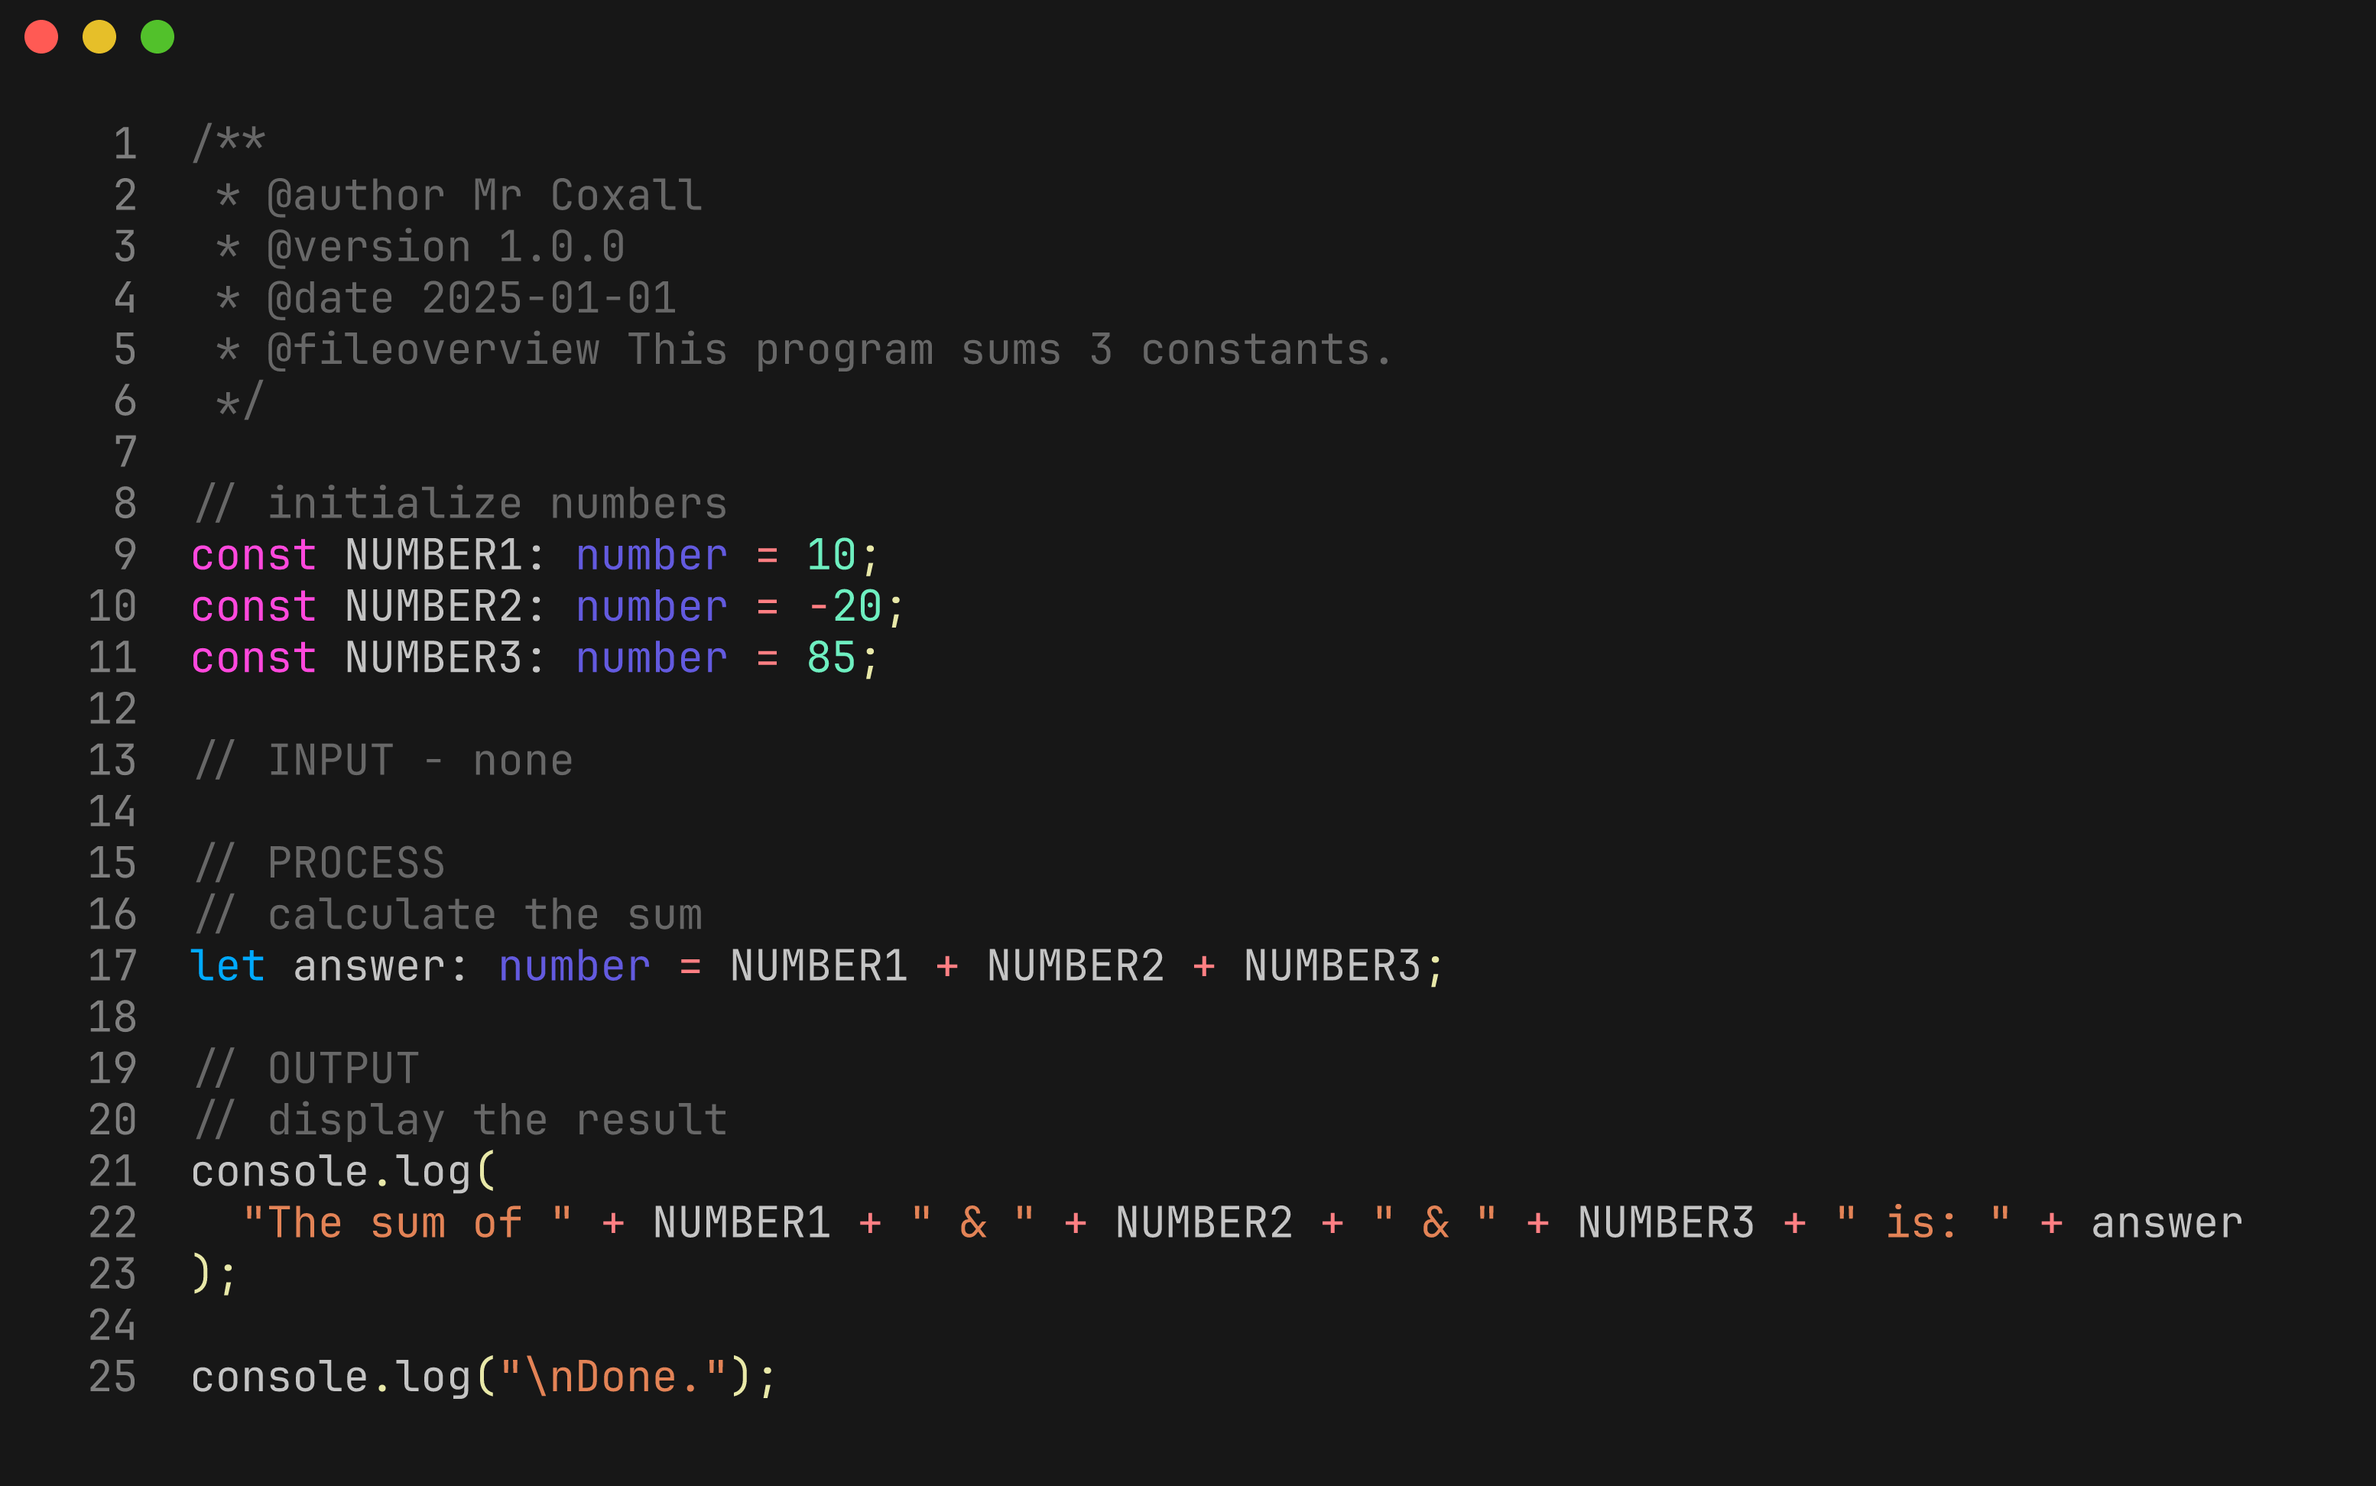
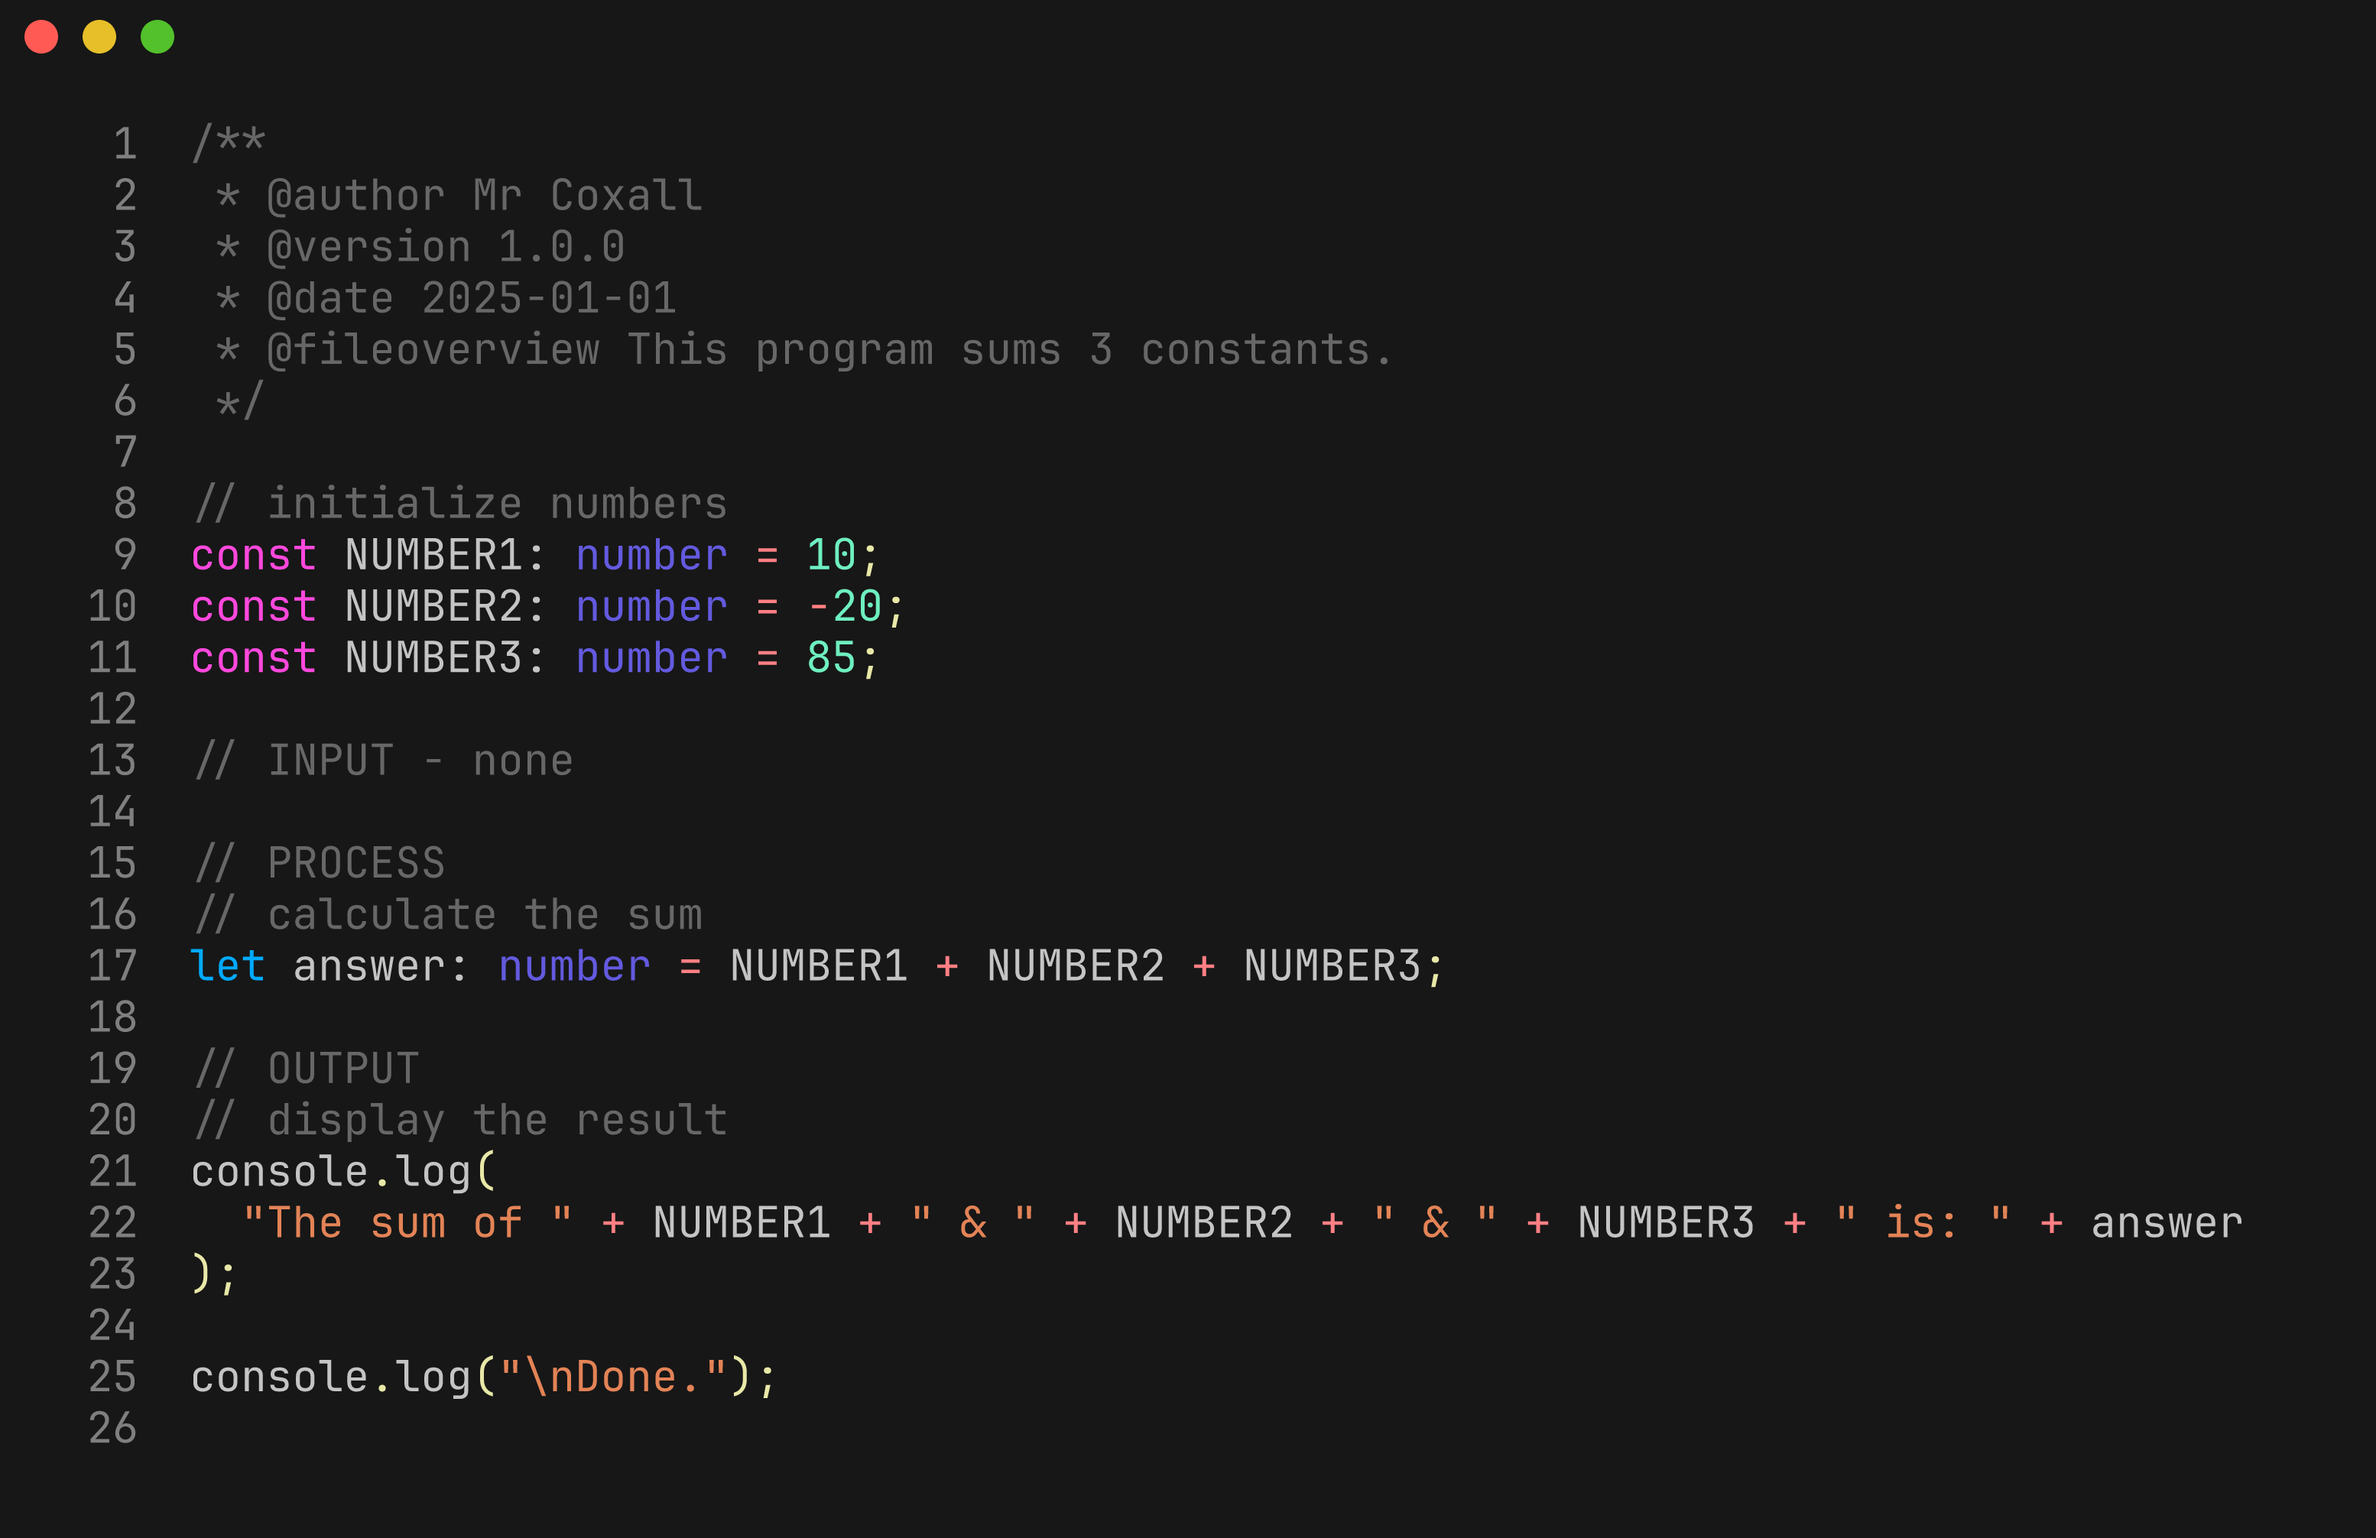
update

diff --git a/same_constants/main.ts b/same_constants/main.ts
@@ -23,3 +23,4 @@ console.log(
 );
 
 console.log("\nDone.");
+

diff --git a/mixing_types/main2.go b/mixing_types/main2.go
@@ -2,7 +2,7 @@
  * Author Mr Coxall
  * Version 1.0.0
  * Date 2025-01-01
- * This program This program sums 3 constants.
+ * This program shows mixing types.
  */
 
 package main
@@ -11,19 +11,18 @@ import "fmt"
 
 func main() {
 	// initialize numbers as constants
-	const NUMBER1 int = 10
-	const NUMBER2 int = -20
-	const NUMBER3 int = 85
+	var someNumber int = 25
+	var someFloat float32 = 85.75
 
 	// INPUT - none
 
 	// PROCESS
 	// calculate the sum
-	answer := NUMBER1 + NUMBER2 + NUMBER3
+	answer := someNumber + someFloat
 
 	// OUTPUT
 	// display the result
-	fmt.Println("The sum of", NUMBER1, "&", NUMBER2, "&", NUMBER3, "is:", answer)
+	fmt.Println("The sum of", someNumber, "&", someFloat, "is:", answer)
 
 	fmt.Println("\nDone.")
 }

diff --git a/mixing_types/main.go b/mixing_types/main.go
@@ -1,0 +1,29 @@
+/*
+ * Author Mr Coxall
+ * Version 1.0.0
+ * Date 2025-01-01
+ * This program shows mixing types.
+ */
+
+package main
+
+import "fmt"
+
+func main() {
+	// initialize variables
+	var someInt int = 25
+	var someFloat float64 = 85.75
+
+
+	// this will hold the sum of the two values
+	var sum int
+
+	// add an int and a float64, casting the float64 to an int
+	sum = someInt + int(someFloat)
+	// the int() conversion truncates the decimal part of someFloat
+
+	// output the result
+	fmt.Println("The sum of a type casted float and an int is:", sum)
+
+	fmt.Println("\nDone.")
+}
